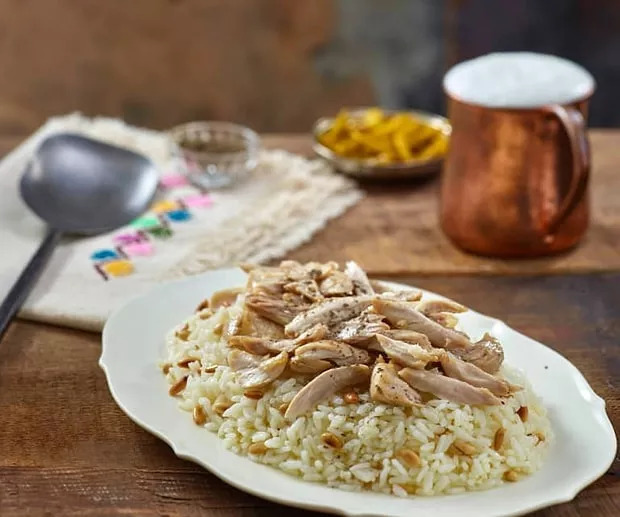
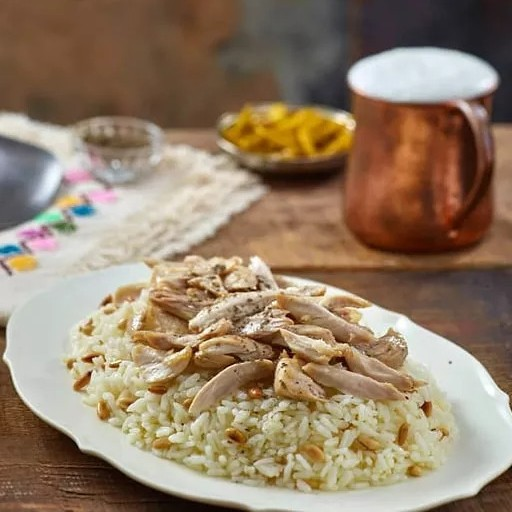
resizes pics & adds showcase on main page

diff --git a/index.html b/index.html
@@ -20,6 +20,12 @@
     <h1>Worldwide Family Recipes</h1>
     <div class="motto">Authentic recipes, original dishes</div>
     <div class="motto">from you, from all over the world</div>
+    <div class="showcase">
+        <a href="recipes/menemen.html"><img src="recipes/images/menemen.jpg" alt="menemen" style="width: 200px;height: auto;"></a>
+        <a href="recipes/siverek_tava.html"><img src="recipes/images/siverek_tava.jpg" alt="siverek_tava" style="width: 200px;height: auto;"></a>
+        <a href="recipes/avocado_shrimp_salad.html"><img src="recipes/images/avocado_shrimp_salad.jpg" alt="avocado_shrimp_salad" style="width: 200px;height: auto;"></a>
+        <a href="recipes/chicken_with_rice.html"><img src="recipes/images/chicken_with_rice.jpg" alt="chicken_with_rice" style="width: 200px;height: auto;"></a>
+    </div>
     <ul>
         <li><a href="recipes/siverek_tava.html">Siverek Tava</a></li>
         <li><a href="recipes/avocado_shrimp_salad.html">Avocado-Shrimp Salad</a></li>

diff --git a/style.css b/style.css
@@ -27,3 +27,13 @@ h1 {
 div {
     text-align: center;
 }
+.showcase > a {
+    border: 5px solid #a8863d;
+    text-align: center;
+    margin: auto;
+    margin-top: 20px;
+}
+
+.showcase {
+    display: flex;
+}
